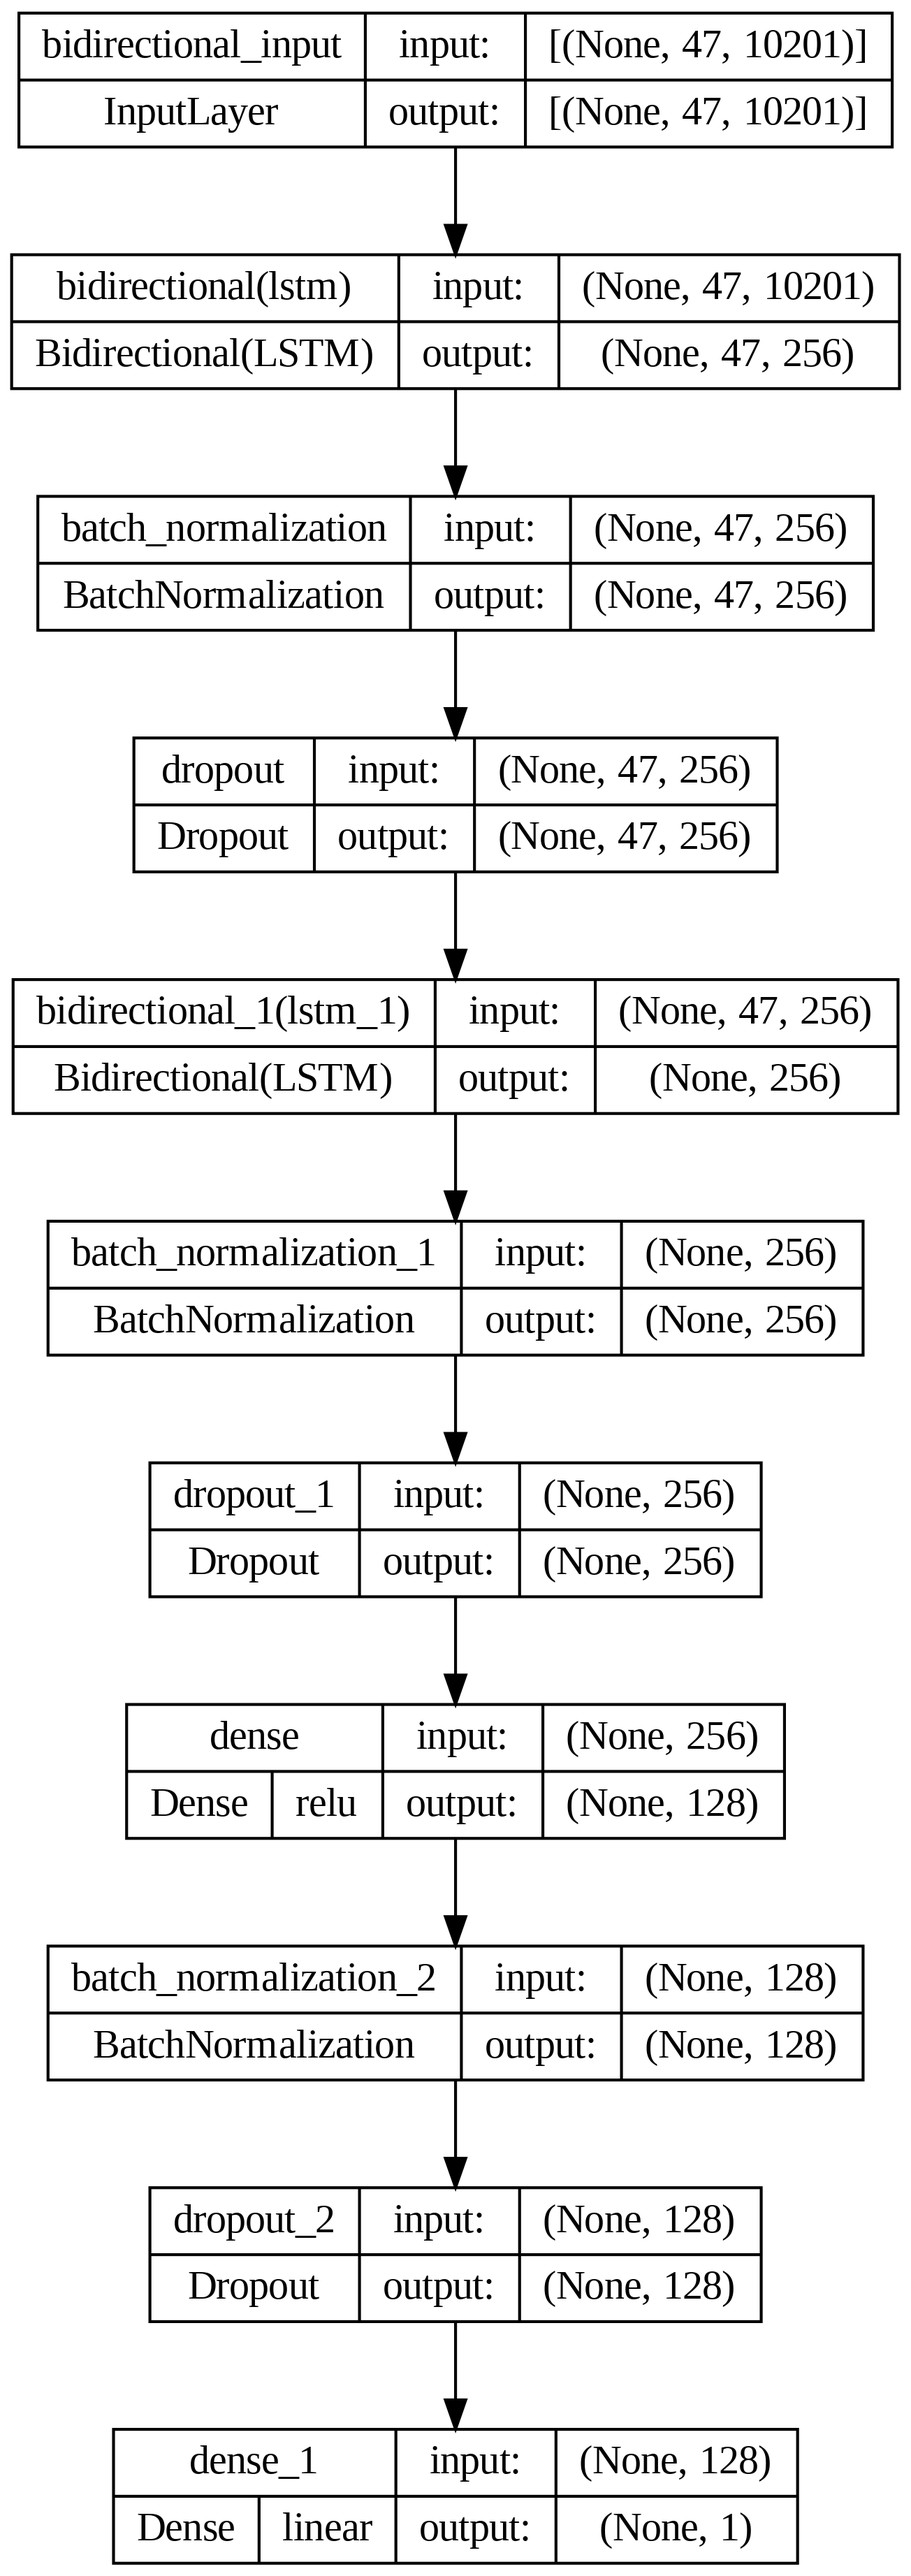
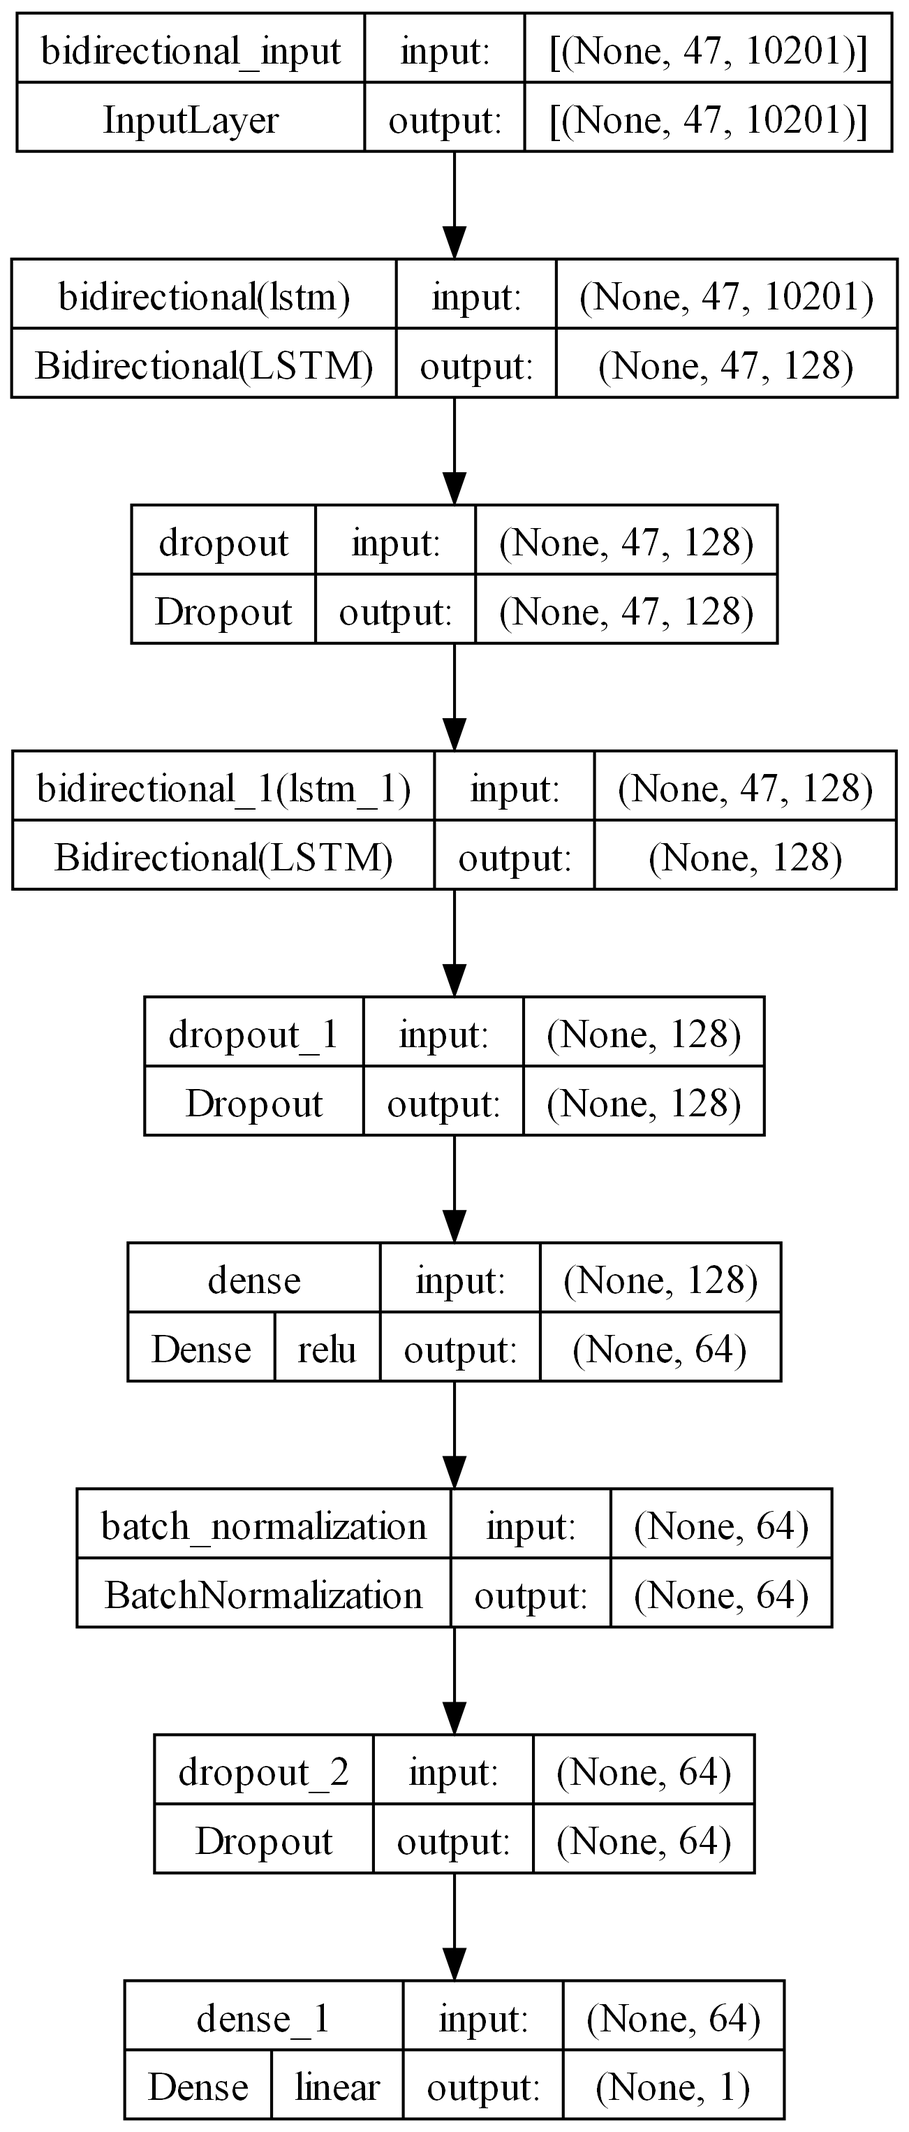
Update -- began training model

Changed region(s): [[0.0, 0.0, 1.0, 0.9961], [0.9831, 0.1556, 1.0, 0.1868]]

diff --git a/main.py b/main.py
@@ -2,6 +2,7 @@ import gc
 import os
 import mne
 import sys
+import pickle
 import librosa
 import logging
 import warnings
@@ -14,6 +15,7 @@ from utils import *
 from pathlib import Path
 from scipy.signal import welch
 from tensorflow.keras.utils import plot_model
+from sklearn.preprocessing import StandardScaler
 from sklearn.model_selection import train_test_split
 from tensorflow.keras import callbacks, layers, models, optimizers, regularizers
 
@@ -28,6 +30,7 @@ for gpu in gpus:
 if not sys.warnoptions:
     warnings.simplefilter("ignore")
 warnings.filterwarnings("ignore", category=DeprecationWarning)
+
 data_dir = Path('data')
 
 
@@ -62,21 +65,6 @@ def process_all_subjects():
     print("Finished preprocessing and epoching all subjects.")
 
 
-def combine_epochs():
-    """Deprecated due to system memory constraints."""
-    # epochs_files = list(data_dir.glob('epochs/sub-*_epochs-epo.fif'))
-    # all_epochs = [mne.read_epochs(f) for f in epochs_files]
-    # combined_epochs = mne.concatenate_epochs(all_epochs)
-    # combined_epochs.save(data_dir / 'epochs' / 'combined_epochs-epo.fif', overwrite=True)
-    # Combine epochs for subjects 1-5 only (because each subject's epoch data is ~3-5 GB in total)
-    # epochs_files = list(data_dir.glob('epochs/sub-[1-5]_epochs-epo.fif'))
-    # all_epochs = [mne.read_epochs(f) for f in epochs_files]
-    # combined_epochs = mne.concatenate_epochs(all_epochs)
-    # combined_epochs.save(data_dir / 'epochs' / 'combined_epochs-1to5-epo.fif', overwrite=True)
-    # print("Finished combining epochs.")
-    pass
-
-
 def extract_audio_features():
     audio_features = {}
     audio_files = list(data_dir.glob('mp3/*.mp3'))
@@ -101,7 +89,14 @@ def load_eeg_data_memmapped(file_path):
     return data, epochs.times
 
 
-def data_generator(eeg_files, audio_features, batch_size=32, verbose=False):
+def normalize_data(data, scaler):
+    # Assume data shape is (batch_size, channels, features)
+    # Reshape data to (batch_size * channels, features) for scaling
+    shaped_data = data.reshape(-1, data.shape[-1])
+    return scaler.transform(shaped_data).reshape(data.shape)
+
+
+def data_generator(eeg_files, audio_features, batch_size=32, verbose=False, scaler=None):
     while True:  # Infinite loop for keras fit_generator
         for eeg_file in eeg_files:
             subject_id = int(eeg_file.stem.split('_')[0].split('-')[1])
@@ -112,6 +107,8 @@ def data_generator(eeg_files, audio_features, batch_size=32, verbose=False):
                     if verbose:
                         print(f"Skipping {eeg_file} due to missing audio features.")
                     continue
+                if scaler:
+                    eeg_data = normalize_data(eeg_data, scaler)
                 indices = np.arange(len(eeg_data))
                 np.random.shuffle(indices)
                 for start_idx in range(0, len(eeg_data), batch_size):
@@ -132,6 +129,21 @@ def data_generator(eeg_files, audio_features, batch_size=32, verbose=False):
     pass
 
 
+def fit_scaler():
+    print("Fitting the StandardScaler...")
+    scaler = StandardScaler()
+    epochs_files = [Path(f"data/epochs/sub-{i}_epochs-epo.fif") for i in range(1, 22)]
+    for file_path in epochs_files:
+        print(f"Fitting scaler for {file_path}")
+        data, _ = load_eeg_data_memmapped(file_path)
+        # Reshape data to 2D (samples, features) if necessary
+        reshaped_data = data.reshape(-1, data.shape[-1])
+        scaler.partial_fit(reshaped_data)
+    with open('weights/scaler.pkl', 'wb') as f:
+        pickle.dump(scaler, f)
+    pass
+
+
 def build_model(input_shape, units=64, dropout_rate=0.5, recurrent_dropout=0.5, num_classes=1,
                 final_activation='linear', loss=None, metrics=None, l2_reg=0.01):
     if final_activation is None:
@@ -141,23 +153,34 @@ def build_model(input_shape, units=64, dropout_rate=0.5, recurrent_dropout=0.5, 
     if metrics is None:
         metrics = ['accuracy']
     model = models.Sequential([
-        layers.Bidirectional(layers.LSTM(units, input_shape=input_shape, recurrent_dropout=recurrent_dropout,
-                                         return_sequences=True, kernel_regularizer=regularizers.l2(l2_reg))),
-        layers.BatchNormalization(),
-        layers.Dropout(dropout_rate),
-        layers.Bidirectional(layers.LSTM(units, return_sequences=False, kernel_regularizer=regularizers.l2(l2_reg))),
-        layers.BatchNormalization(),
-        layers.Dropout(dropout_rate),
-        layers.Dense(units, activation='relu', kernel_regularizer=regularizers.l2(l2_reg)),
-        layers.BatchNormalization(),
+        # layers.Bidirectional(layers.GRU(units, input_shape=input_shape, recurrent_dropout=recurrent_dropout,
+        #                                 return_sequences=True, kernel_regularizer=regularizers.l2(l2_reg))),
+        # # layers.BatchNormalization(),
+        # layers.Dropout(dropout_rate),
+        # layers.Bidirectional(layers.GRU(units, return_sequences=False, kernel_regularizer=regularizers.l2(l2_reg),
+        #                                 dropout=dropout_rate, recurrent_dropout=recurrent_dropout)),
+        # # layers.BatchNormalization(),
+        # # layers.Dropout(dropout_rate),
+        # layers.Dense(units, activation='relu', kernel_regularizer=regularizers.l2(l2_reg)),
+        # layers.BatchNormalization(),
+        # layers.Dropout(dropout_rate),
+        # layers.Dense(num_classes, activation=final_activation)
+        layers.GRU(units, input_shape=input_shape, return_sequences=True,
+                   dropout=recurrent_dropout, recurrent_dropout=recurrent_dropout,
+                   kernel_regularizer=regularizers.l2(l2_reg)),
+        layers.GRU(units, return_sequences=False, dropout=recurrent_dropout,
+                   recurrent_dropout=recurrent_dropout, kernel_regularizer=regularizers.l2(l2_reg)),
+        layers.Dense(units, activation='relu'),
         layers.Dropout(dropout_rate),
         layers.Dense(num_classes, activation=final_activation)
     ])
-    lr_schedule = optimizers.schedules.ExponentialDecay(initial_learning_rate=1e-3, decay_steps=10000, decay_rate=0.9)
     early_stopping = callbacks.EarlyStopping(monitor='val_loss', patience=10, restore_best_weights=True)
-    optimizer = optimizers.Adam(learning_rate=lr_schedule)
+    reduce_lr = callbacks.ReduceLROnPlateau(monitor='val_loss', factor=0.2, patience=5, min_lr=0.001)
+    checkpoint = callbacks.ModelCheckpoint('gru_model_best.h5', monitor='val_loss', save_best_only=True)
+    lr_schedule = optimizers.schedules.ExponentialDecay(initial_learning_rate=1e-4, decay_steps=10000, decay_rate=0.9)
+    optimizer = optimizers.Nadam(learning_rate=lr_schedule, clipnorm=1.0, beta_1=0.9, beta_2=0.999)
     model.compile(optimizer=optimizer, loss=loss, metrics=metrics)
-    return model, [early_stopping]
+    return model, [early_stopping, reduce_lr, checkpoint]
 
 
 def train_model():
@@ -169,28 +192,31 @@ def train_model():
     sample_data = sample_epochs.get_data(copy=False)
     input_shape = sample_data.shape[1:]
 
+    batch_size = 32
+    # scaler = pickle.load(open('weights/scaler.pkl', 'rb'))
     audio_features = extract_audio_features()
     eeg_files = [Path(f"data/epochs/sub-{i}_epochs-epo.fif") for i in range(1, 22)]
-    train_files, val_files = train_test_split(eeg_files, test_size=0.2, random_state=42)
-    train_gen = data_generator(train_files, audio_features, batch_size=32)
-    val_gen = data_generator(val_files, audio_features, batch_size=32)
+    train_files, val_files = train_test_split(eeg_files, test_size=0.15, random_state=42)
+    train_gen = data_generator(train_files, audio_features, batch_size=batch_size)  # , scaler=scaler)
+    val_gen = data_generator(val_files, audio_features, batch_size=batch_size)  # , scaler=scaler)
 
-    model, m_callbacks = build_model(input_shape, units=128, dropout_rate=0.5, loss='mse', metrics=['mae'],
-                                     recurrent_dropout=0.25, num_classes=1)  # 1 class for continuous valence
+    model, m_callbacks = build_model(input_shape, units=32, dropout_rate=0.1, loss='mse', metrics=['mae'],
+                                     recurrent_dropout=0.1)  # 1 class for continuous valence; drop=0.5, rec_drop=0.25
     model.build(input_shape=(None,) + input_shape)  # Apply input shape to model for summary (because of Bidirectional)
     model.summary()
     plot_model(model, show_shapes=True, expand_nested=True,
-               to_file='images/lstm_model.png', show_layer_activations=True, dpi=300)
+               to_file='images/gru_model.png', show_layer_activations=True, dpi=300)
 
     gc.disable()  # Disable garbage collection to prevent memory issues and stalling during training
-    history = model.fit(train_gen, steps_per_epoch=100, epochs=25, verbose=1,
+    history = model.fit(train_gen, steps_per_epoch=100, epochs=10, verbose=1,
                         callbacks=m_callbacks, validation_data=val_gen, validation_steps=25)
-    model.save('weights/lstm_model.h5')
+    model.save('weights/gru_model.h5')
     gc.enable()
 
     for key in ['loss', 'mae']:
         plt.plot(history.history[key], label=f'Training {key.title()}')
         plt.plot(history.history[f'val_{key}'], label=f'Validation {key.title()}')
+        plt.legend()
         plt.title(f'Model {key.title()}')
         plt.ylabel(key.title())
         plt.xlabel('Epoch')
@@ -236,5 +262,6 @@ if __name__ == "__main__":
     print("Hello, world!")
     # process_all_subjects()
     # combine_epochs()
+    # fit_scaler()
     train_model()
-    test_model()
+    # test_model()
